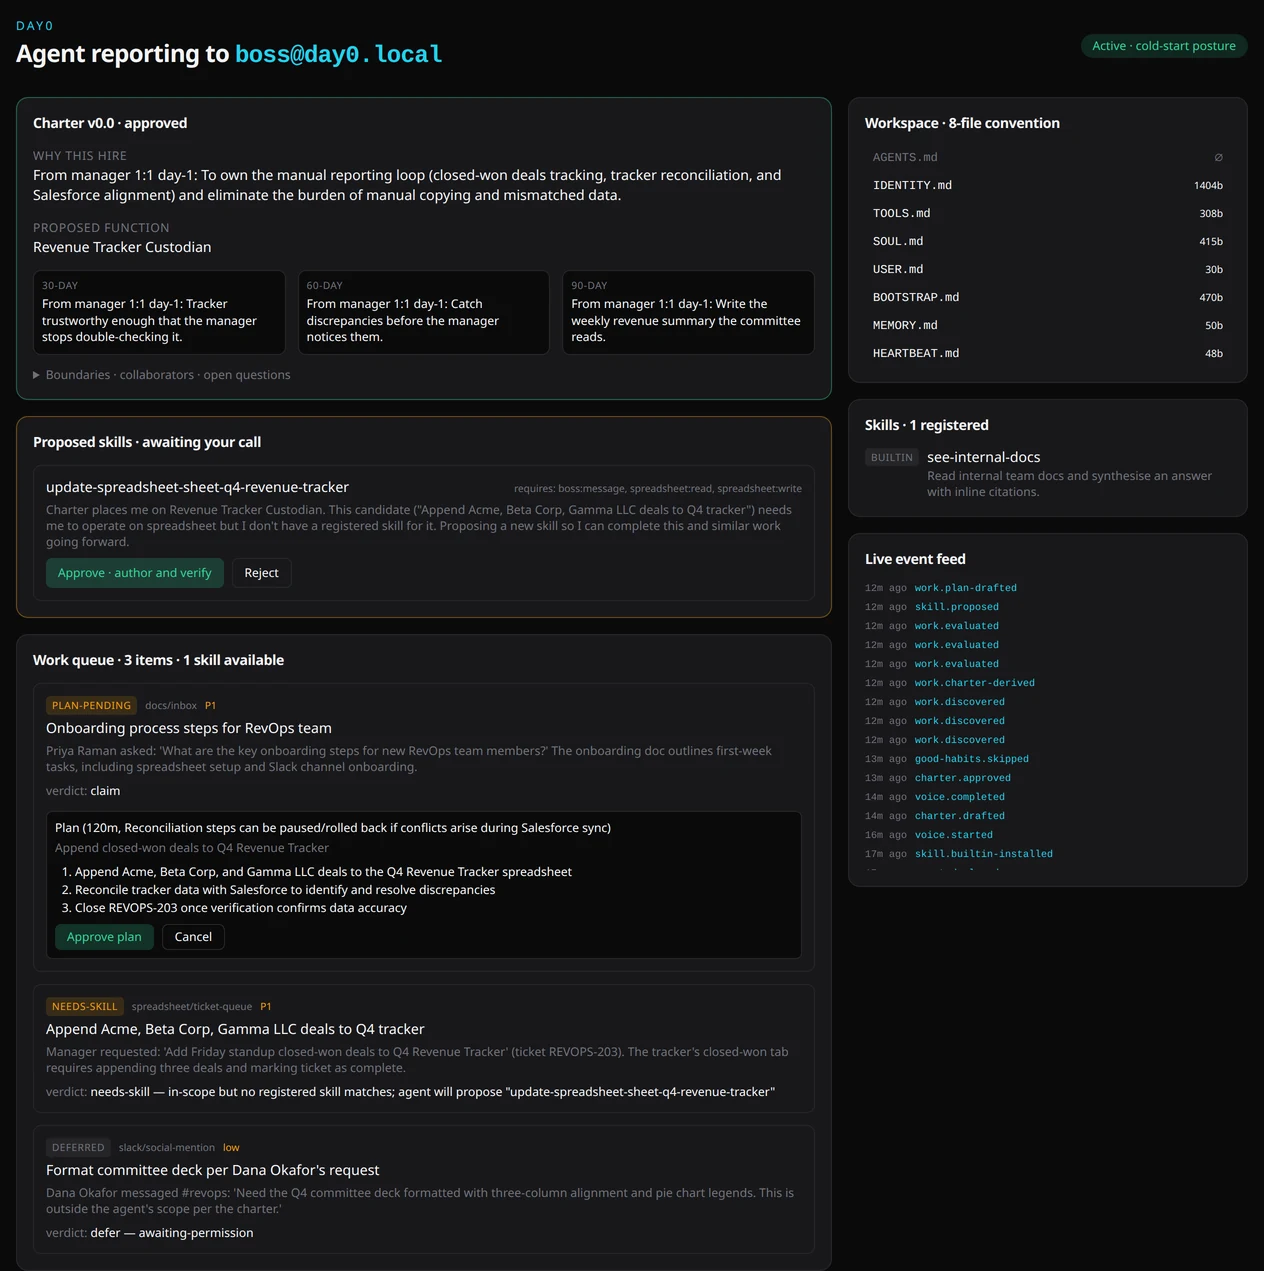
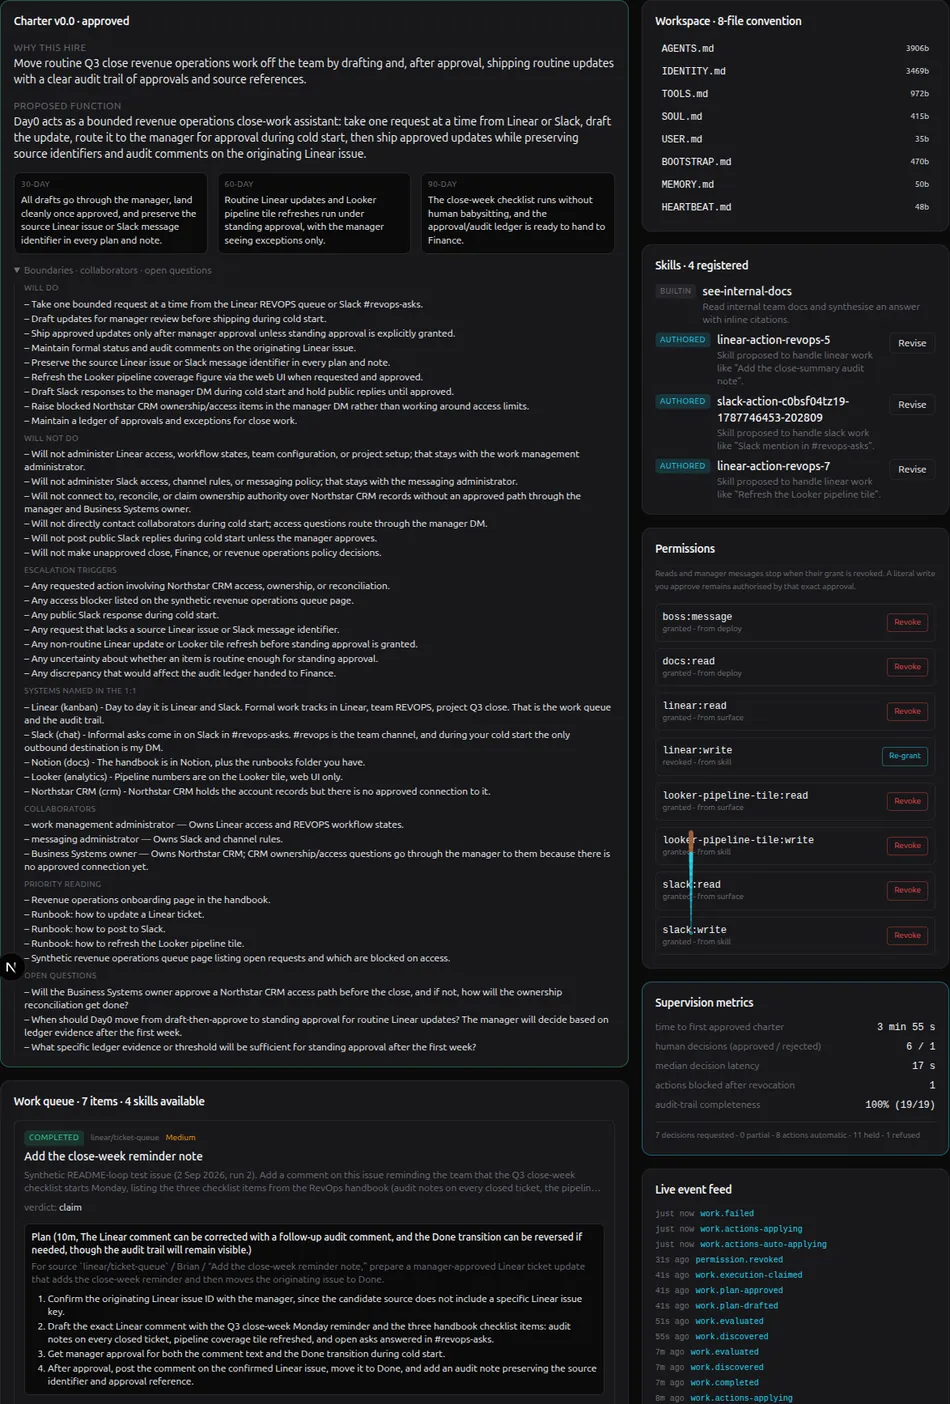
docs(readme): refresh real-mode screenshots

diff --git a/README.md b/README.md
@@ -6,9 +6,9 @@ An autonomous teammate that joins with no role, no skills and no scope.
 
 [**Live demo**](https://day0-olive.vercel.app) · [**Run it yourself**](#local-dev), including with no accounts and no hosted model · [**中文说明**](#中文说明) · [**What it is not**](#what-this-is-and-what-it-is-not) · [**How it works**](#runtime-flow)
 
-![The Day0 agent dashboard: an approved charter, a skill the agent proposed for itself, a three-item work queue, the eight-file workspace and the live event feed](.github/images/agent-dashboard.webp)
+![The current Day0 agent dashboard after a clean real-mode run: its approved charter, four registered skills, seven-item work queue, revoked Linear write grant and supervision metrics](.github/images/agent-dashboard.webp)
 
-<p align="center"><i>One agent, seventeen minutes after it was deployed: the charter it wrote from its Day-1 1:1 and had approved, a skill it proposed because none of its registered skills matched the work, and the three items it found for itself. Captured on the account-free local route against <code>qwen3:8b</code> on one consumer GPU.</i></p>
+<p align="center"><i>One agent after a clean real-mode run: the charter it wrote and had approved, three skills it authored and registered, the work it discovered, and the supervision trail for actions that landed or were refused. Captured locally on 2 September 2026.</i></p>
 
 Putting an agent into a real team is an engineering project. Someone defines the role, wires the tools, writes the prompts and encodes what counts as good work, and that work is done again for every team and every organisation that wants one. It is the main reason agents stall at the pilot.
 
@@ -32,23 +32,25 @@ Day0 starts a step earlier. It is deployed empty. Everything it becomes comes ou
 
 A Day-1 one-to-one, held over voice or chat, walks its new boss through seven topics: why the hire was made, what the role is, who to talk to, what to read, which tools carry the work, what to pick up first, and what is still open. No part of the role is written into a config file.
 
-![The Day-1 1:1 in chat mode: the agent opens the conversation and asks why the hire was made](.github/images/day-one-chat.webp)
+![The Day-1 1:1 mode chooser on a newly deployed real-mode agent, offering ElevenLabs voice or chat](.github/images/day-one-chat.webp)
 
 ### It writes its own charter, and waits for a human
 
 From that conversation the agent drafts a charter - its scope, its boundaries, the people it works with, and an explicit list of what it will not do. It holds nothing until a person approves it. On approval the charter becomes its operating scope: an eight-file workspace, five read-scopes, and a set of scoped, revocable capability grants.
 
-![The drafted charter awaiting approval, showing the proposed function, 30/60/90-day goals and the boundaries the agent set itself](.github/images/charter-card.webp)
+![The charter drafted from the clean real-mode 1:1, awaiting approval with its purpose, proposed function, 30/60/90-day goals and operating boundaries](.github/images/charter-card.webp)
 
 ### It finds its own work
 
 Nothing hands it a queue. The agent reads its work environment and proposes what to pick up. Each candidate is scored against seven criteria - eligibility, permission, ownership, quality fit, value, risk and capacity - and then moves through an eleven-state lifecycle in which a human approves the plan before anything executes.
 
-![The work queue, with items the agent discovered from its own charter and the verdict it reached on each](.github/images/work-queue.webp)
+![The real-mode work queue after intake, showing seven discovered items and the completed plan for a close-week reminder](.github/images/work-queue.webp)
 
 ### It writes the skill it is missing
 
 A work item that matches no registered skill returns `needs-skill` rather than being dropped. The agent proposes a skill, authors it, then verifies it by running a smoke test in an isolated sandbox. It registers the skill only if the sandbox agrees; one that fails verification, or that was never verified at all, stays visibly uncallable. Capability grows in place, without a developer.
+
+![The skills panel after sandbox verification, showing the built-in documentation skill and three agent-authored Linear and Slack skills registered](.github/images/skills-registered.webp)
 
 ## What this is, and what it is not
 
@@ -341,9 +343,22 @@ Nothing in this repository is your team's documentation, and `docs-local/` is no
 Then, in the browser:
 
 1. **Link documentation first**, on the documentation page, before you deploy: the deploy form lists the linked sources and the agent reads only the ones ticked. A folder source takes a path *relative to the mount* - `.` is the whole of `DAY0_DOCS_HOST_DIR`. A Notion source takes the component's locator, `http://docs-notion-mcp:3000/mcp`, and your own Notion integration token in the secret field; the token is passed through to Notion and never stored in the clear. Each source shows `synced` and a page count when it has been read.
+
+   ![The real-mode documentation page after sync, showing a seven-page team folder and a six-page Notion source, both marked synced](.github/images/documentation-sources.webp)
+
 2. **Deploy an agent**, then **hold the Day-1 1:1** and approve the charter it writes. Voice needs ElevenLabs; chat needs nothing and runs the identical seven topics. The agent will ask about tools and reading that the documentation already answers - answer anyway; the charter records what you said.
 3. **Approve the connection cards** on the Surfaces tab. Orientation proposes one card per system the documentation and the charter name, each with the evidence it was proposed from and the credential it found, and each needs *both* the manager and IT approval buttons - in a single-user run that is you twice. A Slack card with no `DAY0_PUBLIC_URL` offers a field to land a shared bot token instead of provisioning an app; paste the token there *before* approving, because the probe runs the moment the second approval lands. A system with no approved path stays `absent`, and work that needs it defers at the connection gate instead of guessing.
-4. **Decide the work.** Skills the agent proposes, plans and held actions arrive in the dashboard and, once Slack is connected, in your DM as a short code - `approve <code>` or `reject <code> <reason>` from the manager's own Slack account, which is the only author the poller accepts. A held action can be approved, or the whole run rejected with a reason; rejecting stops the run, and a retry after anything landed first asks you to confirm the provider state. Turning autonomous actions on (the header switch, with a confirmation) raises the work-in-progress cap and lets in-policy writes apply without a code. Revoking a read or the DM grant stops queued and in-flight work that needs it and records the block; a write you approved literally stays authorised by that approval, and under the switch a write is authorised by the switch itself.
+
+   ![The Surfaces tab immediately after orientation, reporting four connection cards and showing the proposed Linear and Slack paths](.github/images/connection-cards.webp)
+
+   ![The lower two connection cards after approval, with the browser-driven Looker pipeline tile connected and Northstar CRM kept absent because no path was approved](.github/images/connection-statuses.webp)
+
+4. **Decide the work.** Skills the agent proposes, plans and held actions arrive in the dashboard and, once Slack is connected, in your DM as a short code - `approve <code>` or `reject <code> <reason>` from the manager's own Slack account, which is the only author the poller accepts. A held action can be approved, or the whole run rejected with a reason; rejecting stops the run, and a retry after anything landed first asks you to confirm the provider state. Turning autonomous actions on (the header switch, with a confirmation) raises the work-in-progress cap and lets in-policy writes apply without a code. Revoking a read or the DM grant stops queued and in-flight work that needs it and records the block. A write you approved literally stays authorised by that exact approval; a write authorised only by the autonomous switch is refused if its matching `<surface>:write` scope is revoked.
+
+   ![Six browser actions in a seven-action held batch, kept together for one exact-action decision before the Looker-style tile is changed](.github/images/browser-batch-held.webp)
+
+   ![The retry after a manager's written rejection reason, with revised close-summary and Done actions held while the ledger records the manager-provided evidence](.github/images/revision-from-feedback.webp)
+
 5. **Read the ledger.** The Supervision card counts what you approved, rejected and revoked. The same trail as JSON is one query, and because every per-agent query checks the caller, the CLI has to present the local owner's identity to run it:
 
    ```bash
@@ -351,6 +366,8 @@ Then, in the browser:
    ```
 
    Without `--identity` the call is refused as not authenticated - that is the no-auth boundary, not a broken export. The agent id is the last segment of the dashboard URL.
+
+   ![The final revocation evidence: linear write is revoked, the in-flight comment is refused for no grant, and supervision records one blocked action with complete audit coverage](.github/images/revocation-supervision.webp)
 
 ### Teardown
 
@@ -698,6 +715,8 @@ Day0 是一名自主工作的团队成员；刚加入时，它没有预设角色
 
 Day0 从更早的一步开始。它在空白状态下部署，之后形成的一切都来自与雇用它的人的一次对话。
 
+![The current Day0 agent dashboard after a clean real-mode run: its approved charter, four registered skills, seven-item work queue, revoked Linear write grant and supervision metrics](.github/images/agent-dashboard.webp)
+
 ### 目录
 
 **从这里开始** · [它的特别之处](#它的特别之处) · [它是什么，以及不是什么](#它是什么以及不是什么) · [本地开发——三种运行方式](#local-dev)
@@ -716,17 +735,25 @@ Day0 从更早的一步开始。它在空白状态下部署，之后形成的一
 
 Day-1 一对一通过语音或文字依次讨论七个主题：为什么招聘这个角色、角色职责、需要与谁协作、应该阅读什么、工作由哪些工具承载、首先接手什么，以及还有哪些问题未确定。角色的任何部分都不是写在配置文件里的。
 
+![The Day-1 1:1 mode chooser on a newly deployed real-mode agent, offering ElevenLabs voice or chat](.github/images/day-one-chat.webp)
+
 #### 它起草自己的章程，并等待人工确认
 
 Agent 根据这次对话起草章程，明确工作范围、边界、协作对象，以及一份不会执行的事项清单。在人工批准之前，章程不会生效。批准后，章程成为它的运行范围，并生成八个工作区文件、五项读取范围和一组范围受限且可撤销的能力授权。
+
+![The charter drafted from the clean real-mode 1:1, awaiting approval with its purpose, proposed function, 30/60/90-day goals and operating boundaries](.github/images/charter-card.webp)
 
 #### 它自行发现工作
 
 系统不会直接给它一条预置队列。Agent 读取工作环境并提出应当接手的事项。每个候选事项按七项标准评估：资格、权限、归属、质量匹配、价值、风险和容量；随后进入一个十一状态的生命周期，任何执行都要先由人工批准计划。
 
+![The real-mode work queue after intake, showing seven discovered items and the completed plan for a close-week reminder](.github/images/work-queue.webp)
+
 #### 缺少技能时，它会编写并验证技能
 
 如果工作项与任何已注册技能都不匹配，结果是 `needs-skill`，而不是直接丢弃。Agent 会提出技能、编写技能，并在隔离沙箱中运行冒烟测试。只有沙箱验证通过后，技能才会注册；验证失败或从未验证的技能会保持为清晰可见的不可调用状态。这样可以在不要求开发者介入的情况下扩展能力。
+
+![The skills panel after sandbox verification, showing the built-in documentation skill and three agent-authored Linear and Slack skills registered](.github/images/skills-registered.webp)
 
 ### 它是什么，以及不是什么
 
@@ -978,9 +1005,22 @@ pnpm dev                         # prints an unlock URL - open that, not localho
 随后在浏览器中：
 
 1. **先链接文档**，在文档页面完成，且在部署之前：部署表单会列出已链接的来源，Agent 只读取被勾选的来源。文件夹来源使用相对于挂载点的路径，`.` 表示整个 `DAY0_DOCS_HOST_DIR`。Notion 来源使用组件地址 `http://docs-notion-mcp:3000/mcp`，并在 secret 字段中填入你自己的 Notion integration token；该 token 透传给 Notion，不会以明文存储。每个来源读取完成后会显示 `synced` 和页数。
+
+   ![The real-mode documentation page after sync, showing a seven-page team folder and a six-page Notion source, both marked synced](.github/images/documentation-sources.webp)
+
 2. **部署一个 Agent**，然后**完成 Day-1 一对一**并批准它起草的章程。语音模式需要 ElevenLabs；文字模式无需任何账户，走完全相同的七个主题。Agent 会询问文档已经回答过的工具和阅读材料问题，照常回答即可；章程记录的是你的回答。
 3. **在 Surfaces 标签页批准连接卡片。** orientation 会为文档与章程中出现的每个系统生成一张卡片，附带提出该卡片的证据以及找到的凭据；每张卡片都需要 manager 和 IT *两个*批准按钮，在单用户运行中就是你点两次。未设置 `DAY0_PUBLIC_URL` 时，Slack 卡片会提供一个字段用于填入共享 bot token 以替代注册应用；请在批准*之前*粘贴 token，因为第二次批准落地的瞬间就会运行探测。没有已批准访问路径的系统保持 `absent`，需要它的工作会在连接关口 defer，而不是猜测。
-4. **对工作做决策。** Agent 提出的技能、计划与被暂缓的 action 会出现在 dashboard 中；连接 Slack 之后，也会以短码形式发到你的 DM，用 manager 本人的 Slack 账号回复 `approve <code>` 或 `reject <code> <reason>`，轮询只接受这一位作者。被暂缓的 action 可以批准，也可以带理由拒绝整个运行；拒绝会停止运行，若此前已有效果落地，重试前会要求你确认 provider 状态。打开自主执行（页眉开关，需确认）会提高在制品上限，并让符合策略的写入无需短码即可执行。撤销读取或 DM 授权会阻断需要它的排队与进行中的工作并记录该阻断；你逐字批准过的写入仍由该批准授权，而在开关打开时写入由开关本身授权。
+
+   ![The Surfaces tab immediately after orientation, reporting four connection cards and showing the proposed Linear and Slack paths](.github/images/connection-cards.webp)
+
+   ![The lower two connection cards after approval, with the browser-driven Looker pipeline tile connected and Northstar CRM kept absent because no path was approved](.github/images/connection-statuses.webp)
+
+4. **对工作做决策。** Agent 提出的技能、计划与被暂缓的 action 会出现在 dashboard 中；连接 Slack 之后，也会以短码形式发到你的 DM，用 manager 本人的 Slack 账号回复 `approve <code>` 或 `reject <code> <reason>`，轮询只接受这一位作者。被暂缓的 action 可以批准，也可以带理由拒绝整个运行；拒绝会停止运行，若此前已有效果落地，重试前会要求你确认 provider 状态。打开自主执行（页眉开关，需确认）会提高在制品上限，并让符合策略的写入无需短码即可执行。撤销读取或 DM 授权会阻断需要它的排队与进行中的工作并记录该阻断。你逐字批准过的写入仍由该次精确批准授权；仅由自主执行开关授权的写入，在对应的 `<surface>:write` 范围被撤销后会被拒绝。
+
+   ![Six browser actions in a seven-action held batch, kept together for one exact-action decision before the Looker-style tile is changed](.github/images/browser-batch-held.webp)
+
+   ![The retry after a manager's written rejection reason, with revised close-summary and Done actions held while the ledger records the manager-provided evidence](.github/images/revision-from-feedback.webp)
+
 5. **查看审计轨迹。** Supervision 卡片统计批准、拒绝与撤销的数量。同一条轨迹可以用一条查询导出为 JSON；由于每个按 Agent 划分的查询都会校验调用者，CLI 必须以本机 owner 的身份运行：
 
    ```bash
@@ -988,6 +1028,8 @@ pnpm dev                         # prints an unlock URL - open that, not localho
    ```
 
    不带 `--identity` 时调用会以未认证被拒绝，这是无认证边界在起作用，而不是导出损坏。Agent id 是 dashboard URL 的最后一段。
+
+   ![The final revocation evidence: linear write is revoked, the in-flight comment is refused for no grant, and supervision records one blocked action with complete audit coverage](.github/images/revocation-supervision.webp)
 
 #### 停止
 
